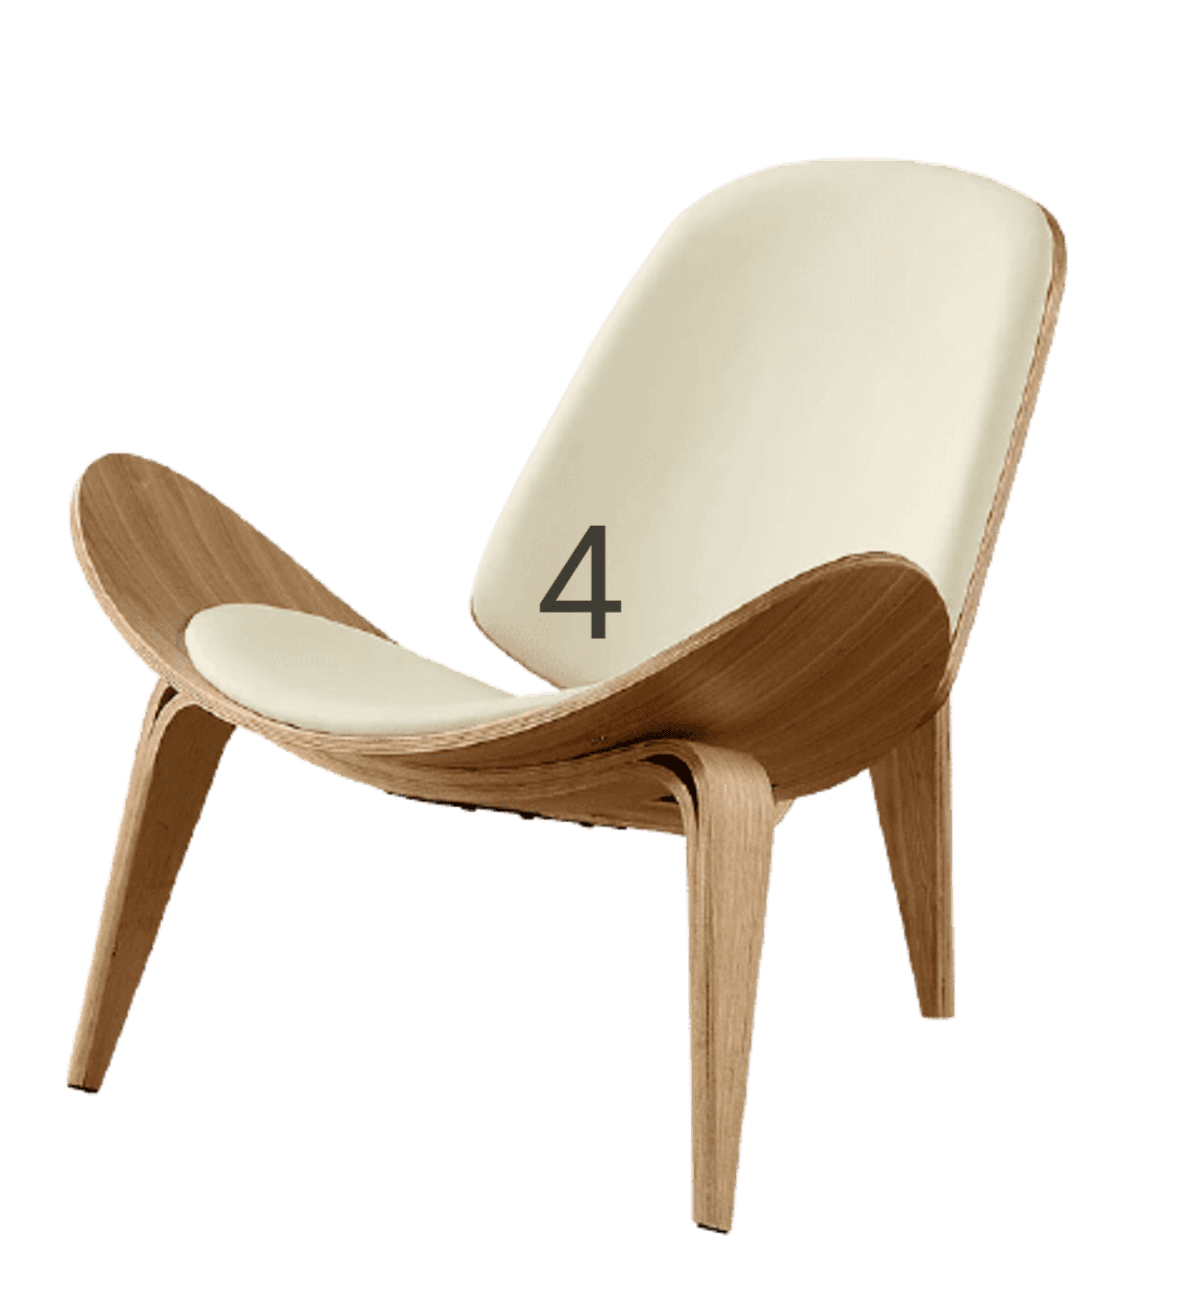
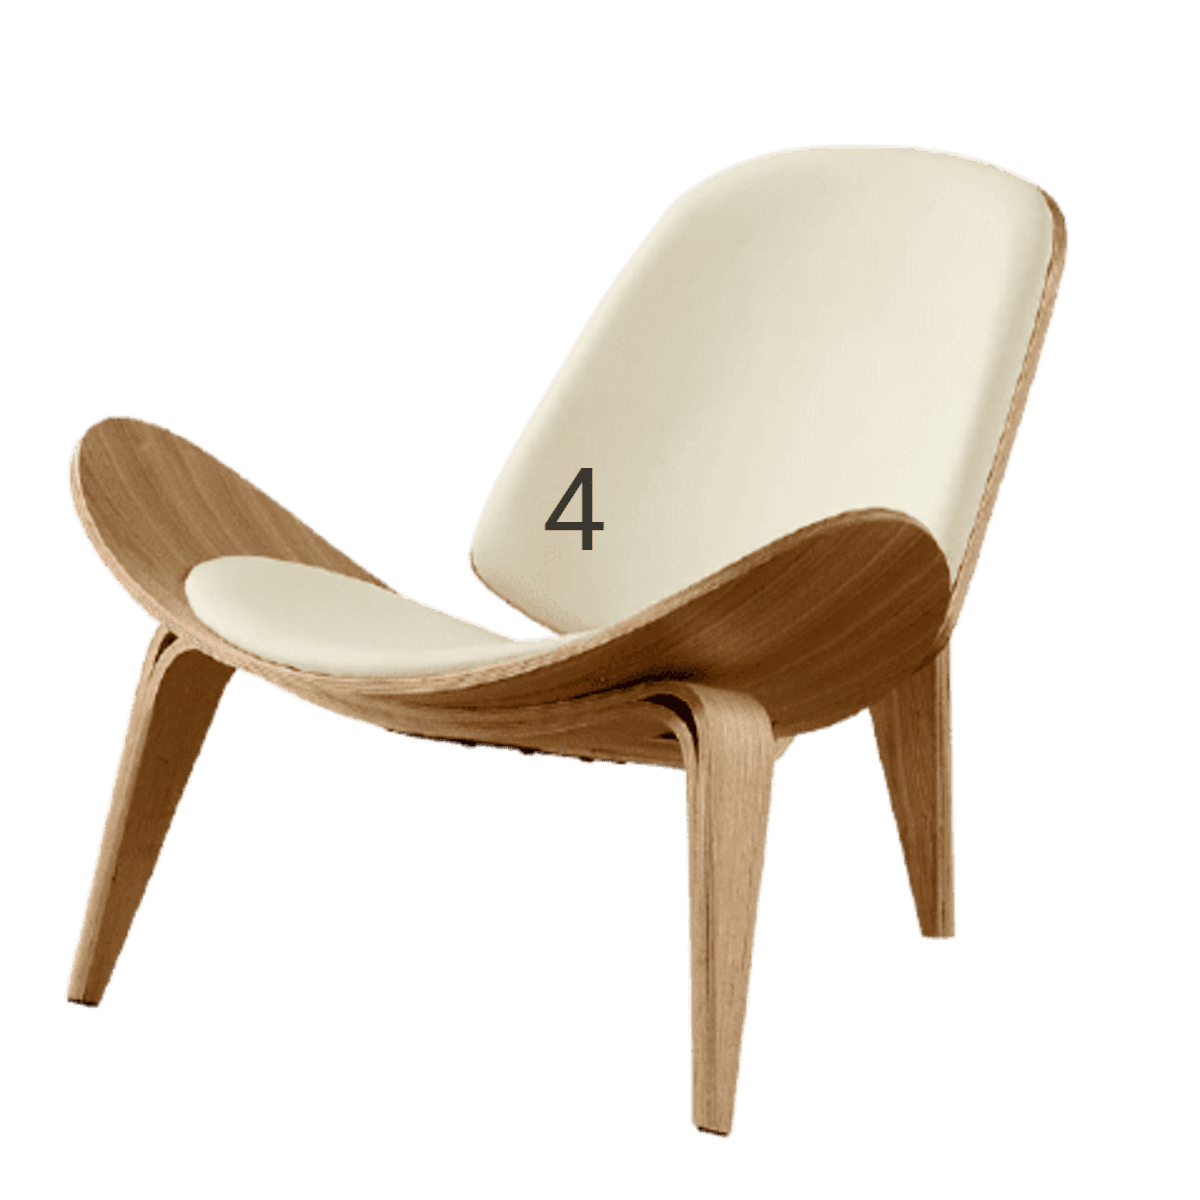
feat(gallery): new images

Changed region(s): [[0.4317, 0.37, 0.5242, 0.4933], [0.4008, 0.6167, 0.4317, 0.6475]]

diff --git a/src/js/files/script.js b/src/js/files/script.js
@@ -22,6 +22,44 @@ function showAlert() {
 
 let galleries = document.querySelectorAll('[data-gallery]')
 
+let items_1 = [
+  {
+    src: '../img/products/chairs/chair_1/gallery_1.png',
+    thumb: '../img/products/chairs/chair_1/thumb_1.png',
+  },
+  {
+    src: '../img/products/chairs/chair_1/gallery_2.png',
+    thumb: '../img/products/chairs/chair_1/thumb_2.png',
+  },
+  {
+    src: '../img/products/chairs/chair_1/gallery_3.png',
+    thumb: '../img/products/chairs/chair_1/thumb_3.png',
+  },
+  {
+    src: '../img/products/chairs/chair_1/gallery_4.png',
+    thumb: '../img/products/chairs/chair_1/thumb_4.png',
+  },
+];
+
+let items_2 = [
+  {
+    src: '../img/products/chairs/chair_2/gallery_1.png',
+    thumb: '../img/products/chairs/chair_2/thumb_1.png',
+  },
+  {
+    src: '../img/products/chairs/chair_2/gallery_2.png',
+    thumb: '../img/products/chairs/chair_2/thumb_2.png',
+  },
+  {
+    src: '../img/products/chairs/chair_2/gallery_3.png',
+    thumb: '../img/products/chairs/chair_2/thumb_3.png',
+  },
+  {
+    src: '../img/products/chairs/chair_2/gallery_4.png',
+    thumb: '../img/products/chairs/chair_2/thumb_4.png',
+  },
+];
+
 galleries.forEach(gallery => {
 
   flsModules.gallery[0].galleryClass.getMediaContainerPosition = function () {
@@ -36,25 +74,14 @@ galleries.forEach(gallery => {
   }
 
   gallery.addEventListener('click', () => {
-    const items = [
-      {
-        src: '../img/products/chairs/chair_1/gallery_1.png',
-        thumb: '../img/products/chairs/chair_1/chair_1.png',
-      },
-      {
-        src: '../img/products/chairs/chair_1/gallery_2.png',
-        thumb: '../img/products/chairs/chair_1/chair_1.png',
-      },
-      {
-        src: '../img/products/chairs/chair_1/gallery_3.png',
-        thumb: '../img/products/chairs/chair_1/chair_1.png',
-      },
-      {
-        src: '../img/products/chairs/chair_1/gallery_4.png',
-        thumb: '../img/products/chairs/chair_1/chair_1.png',
-      },
-    ];
-    flsModules.gallery[0].galleryClass.refresh(items)
+    let id = +gallery.getAttribute("data-id")
+
+    if(id === 1) {
+      flsModules.gallery[0].galleryClass.refresh(items_1)
+    } else {
+      flsModules.gallery[0].galleryClass.refresh(items_2)
+    }
+    
     flsModules.gallery[0].galleryClass.openGallery()
   })
 })

diff --git a/src/html/components/products/_featured.htm b/src/html/components/products/_featured.htm
@@ -2,7 +2,7 @@
   <div class="featured__img">
     <i class="featured__icon icon-cart"></i>
     <i class="featured__icon icon-heart"></i>
-    <div data-gallery class="gallery-container">
+    <div data-gallery data-id=@@id class="gallery-container">
       <i class="featured__icon icon-zoom"></i>
       <img src="@@image" alt="">
     </div>

diff --git a/src/index.html b/src/index.html
@@ -97,6 +97,7 @@
 
 <!-- product featured -->
 <!-- @@include('html/components/products/_featured.htm', {
+  "id": 1,
   "name": "Cantilever chair",
   "image": "../../../img/products/chairs/chair_1/chair_1.png",
   "code": "Y523201",
